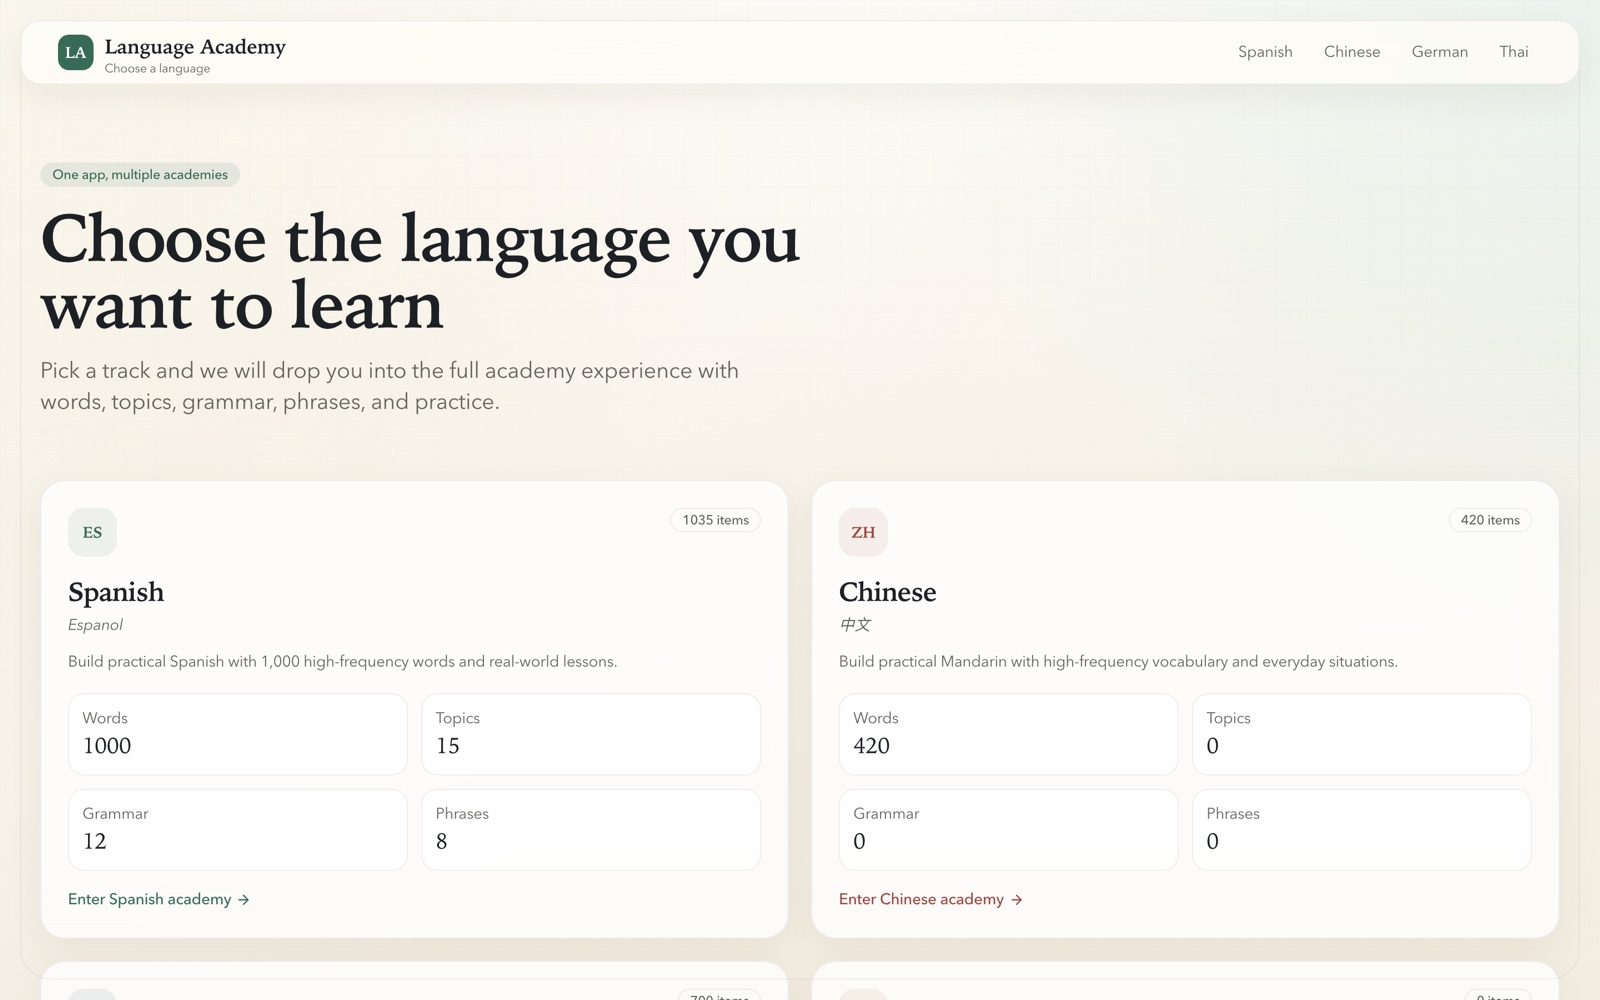
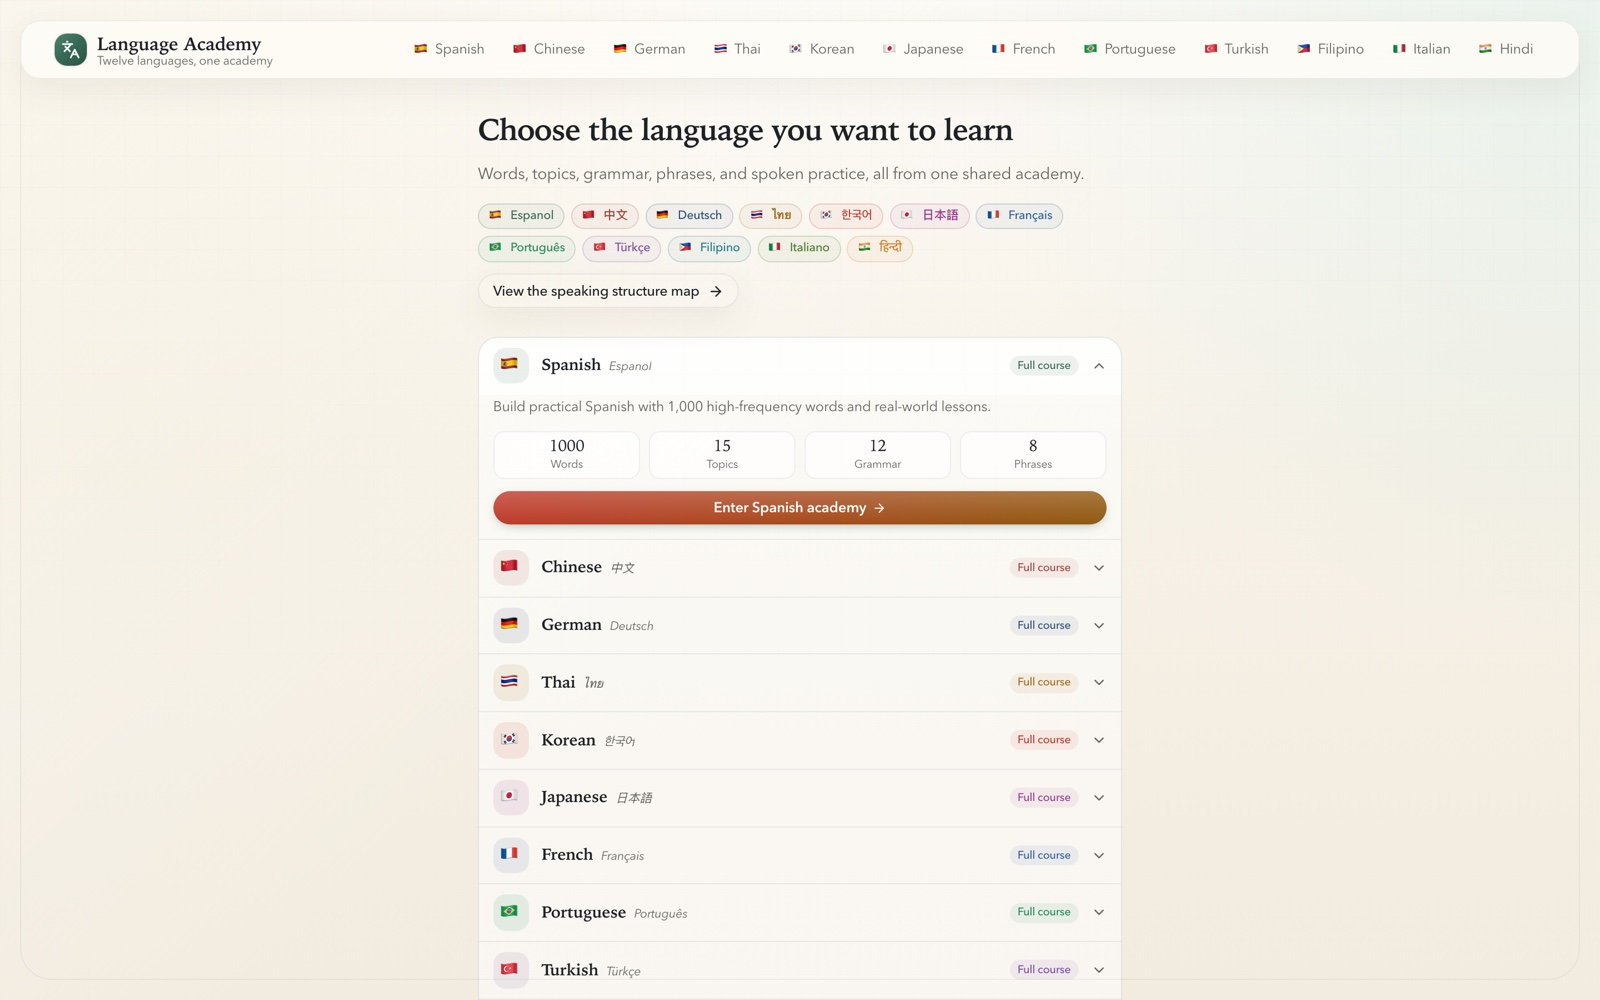
docs: correct README - this is twelve languages, not four
My previous README said four languages. That was wrong, and the error was mine:
I counted content by looping over a hardcoded list of es/de/zh/th instead of
reading what was actually on disk. The live deploy showed twelve tracks in its
header and that is what forced the recount.

The real shape:

- TWELVE languages: Spanish, Chinese, German, Thai, Korean, Japanese, French,
  Portuguese, Turkish, Filipino, Italian, Hindi.
- Every one ships 15 topic lessons, 12 grammar rules, 8 phrase packs, a slang
  pack, the AI conversation coach, the visual guides and the timeline.
- FOUR (Spanish, German, Chinese, Thai) also carry the full 1,000-word
  frequency ladder. The other eight have empty word ladders.

Totals: 180 topic lessons, 144 grammar rules, 96 phrase packs, 12 slang packs,
4,000 ranked words, 5,507 content files, 591 prerendered pages.

The README now leads with the honest split rather than flattening it, because
the app itself already does: a language without vocabulary states "French
currently has 0 of 1000 words loaded in the unified app" directly in its own
interface. That in-product honesty is worth showing, so it gets a screenshot.

Adds 17 screenshots recaptured from the live deployment after the content sync,
covering the coach, speaking-structure map, sentence-skeleton guide, timeline,
slang and a wordless track alongside a complete one.

Repo description and topics updated to match.

diff --git a/README.md b/README.md
@@ -1,8 +1,8 @@
 # 🗣️ Language Academy
 
-> Four languages, built to the same depth. **1,000 frequency-ranked words, 15 topic lessons, 12
-> grammar rules, 8 phrase packs and a slang pack - in every single one.** Plus an AI conversation
-> coach and real regional voices, both of which degrade gracefully to zero-key mode.
+> **Twelve languages, one academy.** Every track ships 15 topic lessons, 12 grammar rules, 8 phrase
+> packs, a slang pack and an AI conversation coach. Four of them also carry the full
+> 1,000-word frequency ladder - and the app tells you honestly which is which.
 
 **[▶ Open the live app](https://vdapp41-spanish-academy.vercel.app)** - pick a language and start. No signup.
 
@@ -16,19 +16,51 @@ Open <http://localhost:3000>. **No API keys needed** - the coach and the voices 
 offline fallbacks. 🎉
 
 <p align="center">
-  <img src="assets/home.jpg" width="100%" alt="Language Academy - choose the language you want to learn" />
+  <img src="assets/home.jpg" width="100%" alt="Language Academy - twelve languages, one academy" />
 </p>
 
 ---
 
-## 🎯 The idea: frequency first
+## 🌏 The twelve
+
+🇪🇸 Spanish · 🇨🇳 Chinese · 🇩🇪 German · 🇹🇭 Thai · 🇰🇷 Korean · 🇯🇵 Japanese · 🇫🇷 French ·
+🇵🇹 Portuguese · 🇹🇷 Turkish · 🇵🇭 Filipino · 🇮🇹 Italian · 🇮🇳 Hindi
+
+One shared UI shell renders all of them. There are **no per-language route forks** - the bet the
+whole codebase is built on is that the same interface generalises, and adding a language is adding
+a content folder rather than cloning the app.
+
+| | Every language | Spanish · German · Chinese · Thai |
+|---|---|---|
+| Topic lessons | **15** | 15 |
+| Grammar rules | **12** | 12 |
+| Phrase packs | **8** | 8 |
+| Slang pack | **✅** | ✅ |
+| AI conversation coach | **✅** | ✅ |
+| Visual guides + timeline | **✅** | ✅ |
+| **Frequency-ranked vocabulary** | *awaiting import* | **1,000 words** |
+
+**180** topic lessons · **144** grammar rules · **96** phrase packs · **12** slang packs ·
+**4,000** ranked words · **5,507** content files · **591** prerendered pages.
+
+### The app is honest about the gap
+
+The eight languages without vocabulary do not pretend otherwise. Each one states its own import
+status in the interface, with real numbers:
+
+> **Current import status.** French currently has 0 of 1000 words loaded in the unified app. The
+> shared structure is ready, so we can keep filling content without touching the UI again.
+
+<p align="center">
+  <img src="assets/track-french.jpg" width="49%" alt="French track - honest import status, 0 of 1000 words" />
+  <img src="assets/track-german.jpg" width="49%" alt="German track - full 1,000 word ladder" />
+</p>
+
+## 🎯 Frequency first
 
 Most vocabulary apps teach words in the order a textbook chapter needs them. This one orders them
-by **how often you will actually meet them**, and commits to that hard enough to build the whole
-navigation around it.
-
-Every word carries a **contiguous frequency rank** - 1 to 1000, no gaps, no duplicates, in all four
-languages - grouped into a five-tier ladder:
+by **how often you will actually meet them**, and commits hard enough to build the navigation
+around it. Ranks are contiguous - 1 to 1000, no gaps, no duplicates - grouped into five tiers:
 
 | Tier | Range | The promise |
 |---|---|---|
@@ -39,21 +71,61 @@ languages - grouped into a five-tier ladder:
 | **Fluent 250** | 751-1000 | Nuance, register, opinion |
 
 The framing throughout is **survival → confidence → fluency**, not beginner / intermediate /
-advanced. It describes what you can actually do, not how long you have been studying.
+advanced. It describes what you can do, not how long you have studied.
 
-## 📊 What is actually in here
+<p align="center">
+  <img src="assets/words-tiers.jpg" width="32%" alt="The five frequency tiers" />
+  <img src="assets/words-essential-50.jpg" width="32%" alt="Word cards with rank, pronunciation and example" />
+  <img src="assets/words-german.jpg" width="32%" alt="German word tiers" />
+</p>
 
-Counted from disk. Every language is built to the same depth - there is no token second language.
+Each card shows rank, the term (with its article for German), English, pronunciation, a
+colour-coded part-of-speech badge across 13 types, gender where it applies, and an example sentence
+in both languages.
 
-| Track | Words | Topics | Grammar | Phrase packs | Slang |
-|---|---|---|---|---|---|
-| 🇪🇸 **Spanish** | **1,000** | **15** | **12** | **8** | ✅ |
-| 🇩🇪 **German** | **1,000** | **15** | **12** | **8** | ✅ |
-| 🇨🇳 **Chinese** | **1,000** | **15** | **12** | **8** | ✅ |
-| 🇹🇭 **Thai** | **1,000** | **15** | **12** | **8** | ✅ |
+## 🎙️ Conversation coach
 
-**5,507 content files** compiling to **591 prerendered pages**, across 19 routes. One shared UI
-shell, four languages, zero per-language route forks.
+`/{lang}/coach` is guided, scored speaking practice - in **all twelve languages**.
+
+- **With an `ANTHROPIC_API_KEY`** it holds a free-form conversation in your target language.
+- **Without one** it replays **real lesson dialogues** from the curriculum. Not an error state and
+  not a paywall - a genuinely usable offline mode built from content that already exists.
+
+<p align="center">
+  <img src="assets/coach.jpg" width="100%" alt="AI conversation coach - speak a real conversation, hear every line, get scored" />
+</p>
+
+## 🔊 Real voices, optional
+
+`/api/tts` serves speech through **ElevenLabs** when `ELEVENLABS_API_KEY` is set, including a
+**region-matched voice picker** per language. Without a key it falls back to the browser's built-in
+Web Speech voices, so pronunciation always works.
+
+**Every key is optional and server-side.** There is not a single `NEXT_PUBLIC_` secret, so nothing
+sensitive can reach the browser bundle. [`.env.example`](.env.example) documents exactly what each
+key upgrades and what happens without it.
+
+## 🧠 Visual guides: why a sentence is shaped that way
+
+The second proposition, beyond vocabulary. Structure, not drilling:
+
+- **`/{lang}/guides/sentence-skeleton`** - the load-bearing shape of a sentence
+- **`/{lang}/guides/phrase-to-pattern`** - turning a memorised phrase into a reusable pattern
+- **`/{lang}/guides/meaning-load`** - which words are actually carrying the meaning
+- **`/speaking-structure`** - a cross-language map of where speaking pressure sits
+
+<p align="center">
+  <img src="assets/speaking-structure.jpg" width="49%" alt="Speaking structure map across languages" />
+  <img src="assets/guide-sentence-skeleton.jpg" width="49%" alt="Sentence skeleton visual guide" />
+</p>
+
+Plus **`/{lang}/timeline`**, a five-stage learning path, and **`/{lang}/slang`** for the casual
+register textbooks skip.
+
+<p align="center">
+  <img src="assets/timeline.jpg" width="49%" alt="Five-stage guided learning timeline" />
+  <img src="assets/slang.jpg" width="49%" alt="Everyday slang pack" />
+</p>
 
 ## 📚 What a topic lesson gives you
 
@@ -72,69 +144,25 @@ with immediate feedback and an explanation, one question at a time, and a scored
   <img src="assets/topic-greetings-quiz.jpg" width="100%" alt="A dialogue followed by the topic quiz" />
 </p>
 
-## 🎙️ Conversation coach
-
-`/{lang}/coach` is a guided, scored speaking practice conversation.
-
-- **With an `ANTHROPIC_API_KEY`** it holds a free-form conversation in your target language.
-- **Without one** it replays **real lesson dialogues** from the curriculum. Not an error state, not
-  a paywall - a genuinely usable offline mode built from content that already exists.
-
-## 🔊 Real voices, optional
-
-`/api/tts` serves high-quality speech through **ElevenLabs** when `ELEVENLABS_API_KEY` is set,
-including a **region-matched voice picker** per language. Without a key it falls back to the
-browser's built-in Web Speech voices, so pronunciation always works.
-
-**Every key in this app is optional and server-side.** There is not a single `NEXT_PUBLIC_` secret,
-so nothing sensitive can reach the browser bundle. See [`.env.example`](.env.example) - it documents
-exactly what each key upgrades and what happens without it.
-
-## 🧠 Visual guides: why a sentence is shaped that way
-
-The second proposition, beyond vocabulary. Language-deconstruction surfaces that teach structure
-rather than drilling words:
-
-- **`/{lang}/guides/sentence-skeleton`** - the load-bearing shape of a sentence
-- **`/{lang}/guides/phrase-to-pattern`** - turning a memorised phrase into a reusable pattern
-- **`/{lang}/guides/meaning-load`** - which words are actually carrying the meaning
-- **`/speaking-structure`** - a cross-language introduction to where speaking pressure sits
-
-Plus **`/{lang}/timeline`**, a five-stage learning path grounded in the surfaces that exist, and
-**`/{lang}/slang`** for the casual register textbooks skip.
-
-## 📐 Grammar, phrases and words
+## 📐 Grammar and phrases
 
 <p align="center">
-  <img src="assets/words-tiers.jpg" width="32%" alt="The five frequency tiers" />
-  <img src="assets/words-essential-50.jpg" width="32%" alt="Word cards with rank, pronunciation and example" />
   <img src="assets/grammar-index.jpg" width="32%" alt="Grammar rule index" />
-</p>
-<p align="center">
-  <img src="assets/grammar-ser-vs-estar.jpg" width="49%" alt="Ser vs estar explained" />
-  <img src="assets/phrases-restaurant.jpg" width="49%" alt="Restaurant phrase pack" />
+  <img src="assets/grammar-ser-vs-estar.jpg" width="32%" alt="Ser vs estar explained" />
+  <img src="assets/phrases-restaurant.jpg" width="32%" alt="Restaurant phrase pack" />
 </p>
 
-Each word card shows rank, the term (with its article for German), English, pronunciation, a
-colour-coded part-of-speech badge across 13 types, gender where it applies, and an example sentence
-in both languages. Phrase packs are tagged formal / informal / neutral.
+Grammar rules carry patterns, conjugation tables, examples, common mistakes and tips. Phrase packs
+are tagged formal / informal / neutral.
 
-## 🌏 One shell, four tracks
+## 🧱 Adding a language is adding a folder
 
-<p align="center">
-  <img src="assets/track-spanish.jpg" width="24%" alt="Spanish track" />
-  <img src="assets/track-german.jpg" width="24%" alt="German track" />
-  <img src="assets/track-chinese.jpg" width="24%" alt="Chinese track" />
-  <img src="assets/track-thai.jpg" width="24%" alt="Thai track" />
-</p>
+Drop `content/curriculum/{lang}/` in place, add a schema branch, and routing, tiers and navigation
+follow. Every content file is validated by **Zod** at load time, so a malformed word file fails the
+build rather than shipping a broken card.
 
 The language switcher preserves where you are: switch language from the words section and you land
 in the words section, not back at a home page.
-
-**Adding a language is adding a folder, not cloning the app.** Drop
-`content/curriculum/{lang}/` in place, add a schema branch, and routing, tiers and navigation
-follow. Every content file is validated by **Zod** at load time, so a malformed word file fails the
-build rather than shipping a broken card.
 
 ## 🛠️ Tech stack
 
@@ -161,15 +189,18 @@ learning path.
 
 ## ⚠️ Honest status
 
-- **There is no CI.** No `.github/` directory, so the suite above only runs when someone runs it
-  locally. Nothing gates a push.
-- **No spaced repetition and no flashcards.** Word cards are static reference - no flip, no reveal,
-  no self-grading. The quizzes and the coach are the active-recall surfaces.
+- **Eight of the twelve languages have no vocabulary yet** - French, Japanese, Korean, Portuguese,
+  Turkish, Filipino, Italian and Hindi carry lessons, grammar, phrases, slang and the coach, but
+  their word ladders are empty. The app states this per language rather than hiding it.
+- **There is no CI.** No `.github/` directory, so the suite above only runs locally. Nothing gates
+  a push.
+- **No spaced repetition and no flashcards.** Word cards are static reference. The quizzes and the
+  coach are the active-recall surfaces.
 - **No progress persistence.** Nothing is stored between sessions; quiz state resets on reload.
-- **Spanish remains the most editorially polished track.** All four are structurally complete to the
-  same depth, but Spanish has had the most passes over its prose.
+- **Spanish is the most editorially polished track.** Structure is even across all twelve; prose
+  passes are not.
 - **`content/curriculum/words/` is a dead duplicate** of the Spanish word set (1,000 files kept as
-  a legacy fallback that the loader no longer reaches). Harmless, but it is dead weight.
+  a legacy fallback the loader no longer reaches). Harmless, but it is dead weight.
 
 ## 📄 Licence
 